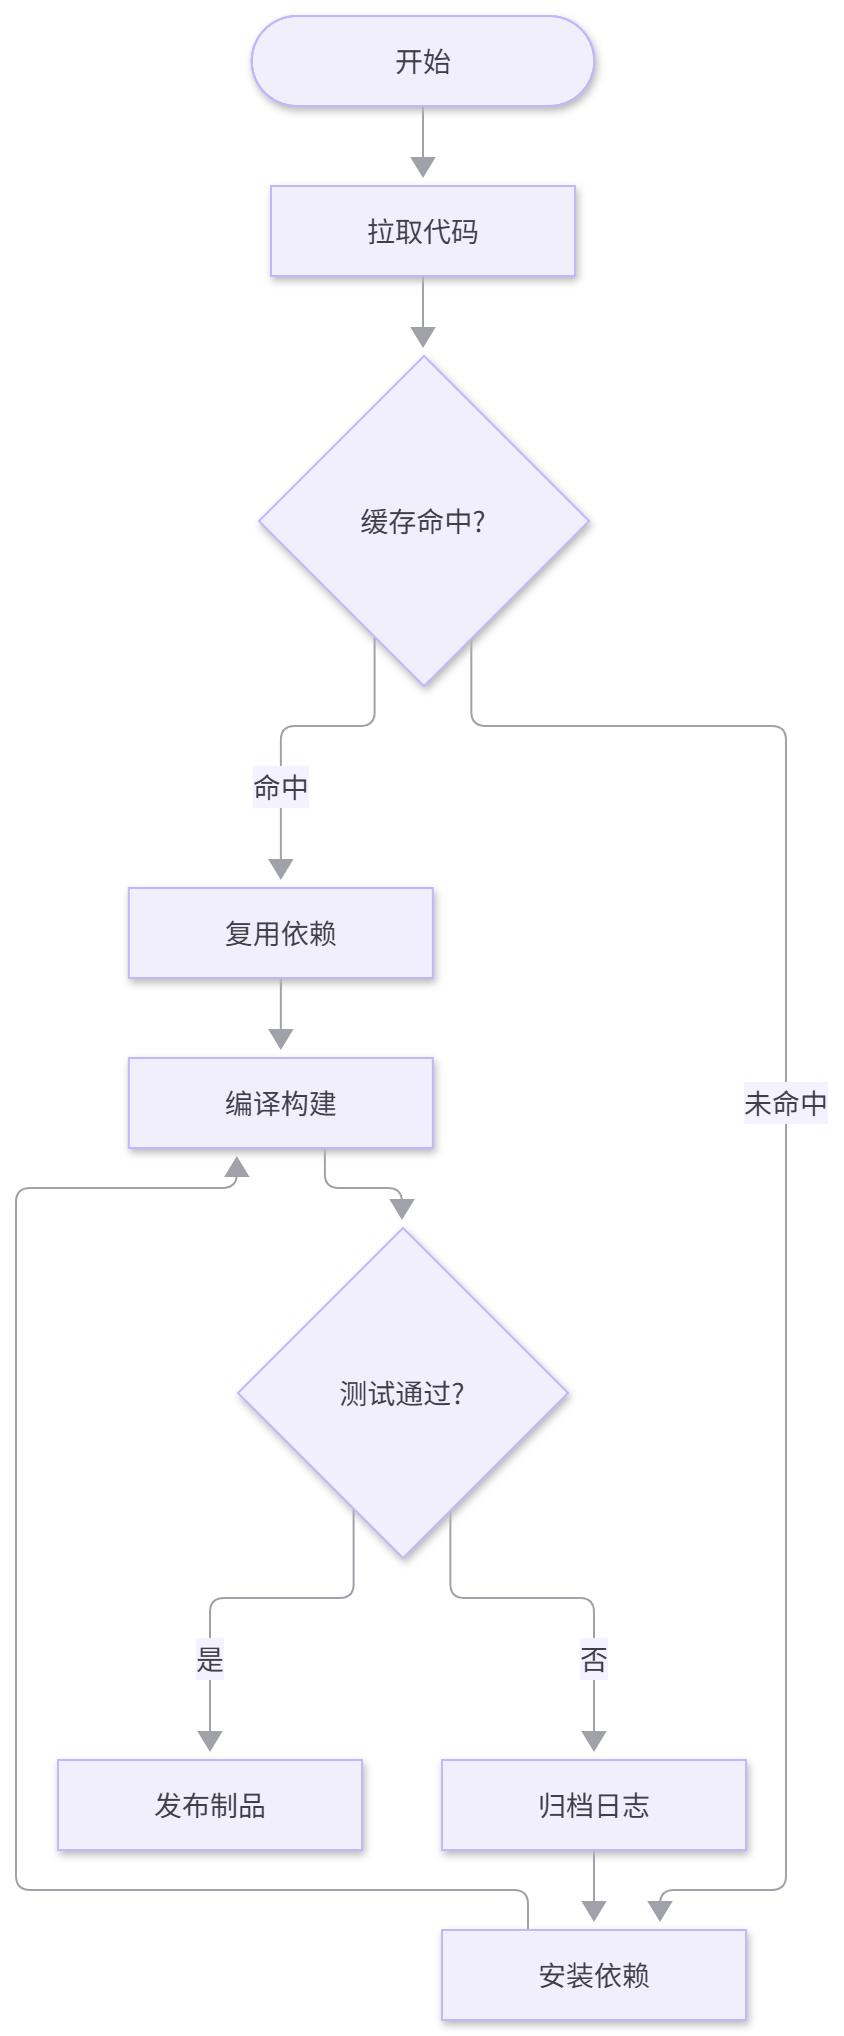
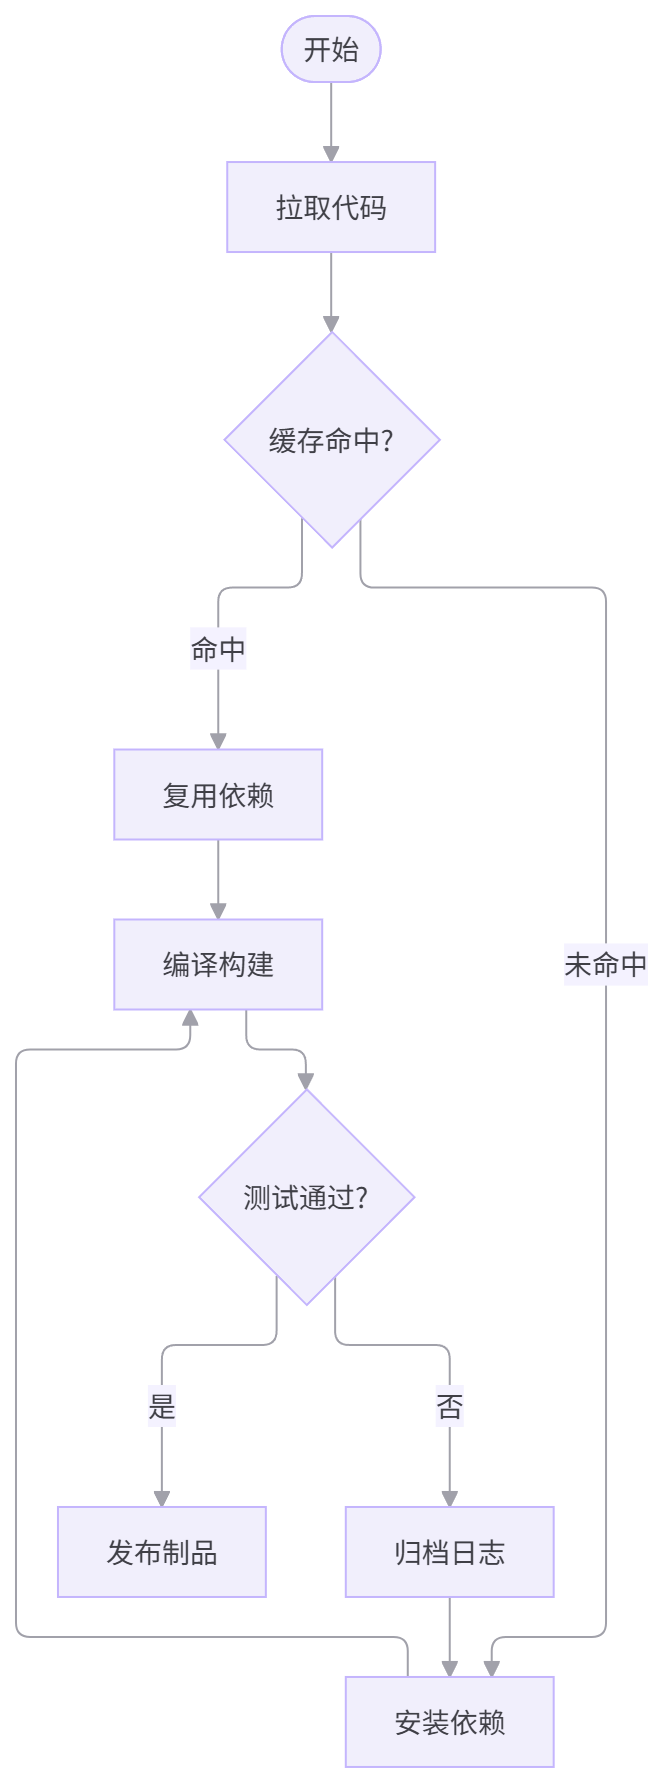
docs: 同步 mermaid 12 的 look 逆向结论并重生成对比图
docs/obsidian-internals.md「mermaid 12 的配置语义」补四条：look 的解析层序（段级优先于顶层，
故一条顶层指令即可全图种生效）、minNodeWidth 与 wrappingWidth 各自的作用（后者落到 DOM 上是
max-width 而非固定宽，调大只会让长标签晚点折）、themeVariables.fontSize 对状态图标签确实生效、
以及「数 SVG 字符串里的 data-look="neo" 得到的是 CSS 选择器不是渲染结果」这个坑。

AGENTS.md 加一条动手前必知的事实；README 双语补上回退投影的具体写法；CHANGELOG 记 0.1.3；
images/compare-*-plugin.png 四张按 npm run shots 重生成（native 侧未变）。

diff --git a/docs/obsidian-internals.md b/docs/obsidian-internals.md
@@ -63,6 +63,21 @@
   「Mermaid 默认 / 开 / 关」这类三态，避免在用户没要求时覆盖官方默认。
 - 流程图节点填充色取的是 `themeVariables.mainBkg`（**不是** `primaryColor`）；调主题色时不能只改
   `primaryColor`，否则节点不会变色。
+- **`look` 属于「外观三键」，而它的默认值藏在图种段里**：顶层 `look` 默认 `"classic"`，但 `defaultConfig`
+  的每个图种段（`flowchart` / `state` / `class` …）各自带 `look: "neo"`。`resolveAppearance` 按
+  「指令 → `initialize` 增量 → defaultConfig」的层序取值，同一层内**段级优先于顶层**，命中后再回写进段里
+  （`chunk-VPRB5NB3.mjs:5112-5160`）。neo 与非 neo 的实际差别是节点投影（`[data-look="neo"].node rect
+  { filter: … }`，同文件 5641-5681）和被硬编码抬高的内边距（`chunk-XC4XBNZT.mjs:676,1370,1452`），
+  以及箭头 marker（`barbNeo` / `barb`）。→ 注入**顶层** `look` 一条就能统一全部图种，只写 `state.look`
+  则只有状态图变。
+- **节点等宽与长标签折行是两条互不相干的默认值**：`state.minNodeWidth` / `flowchart.minNodeWidth`（均 120）
+  经 `labelHelper` 的 `withMinWidth` 把所有节点夹成等宽；`*.wrappingWidth`（均 120）决定折行点。
+  `wrappingWidth` 落到 DOM 上是 `max-width` 而非固定宽（`chunk-E2ZNV5FY.mjs:679-682`），所以调大它只会让
+  长标签晚一点折、不会把短节点撑宽 —— 想「贴着文字量尺寸」两个键都得动。
+- `themeVariables.fontSize` 对状态图标签确实生效（实测 computed 为 14px），于是节点宽度是
+  `字数 × 字号 + 2 × padding` 的线性函数。改字号会连带改布局密度，不只是改外观。
+- **核对 `look` 别数 SVG 字符串**：`[data-look="neo"]` 作为 CSS 选择器**永远**出现在内嵌 `<style>` 里，
+  数它等于零信息量。要看元素的 `data-look` 属性值，或节点 `rect` 的 computed `filter` 是不是 `none`。
 
 ## 我们的运行时决策（原因，不写在代码里）
 

diff --git a/CHANGELOG.md b/CHANGELOG.md
@@ -3,6 +3,26 @@
 本项目的版本记录。格式参考 Keep a Changelog，版本号遵循语义化版本；最新条目在最上面。
 面向用户的中英双语发布说明在 GitHub Release 里，本文件是仓库内的完整变更记录。
 
+## [0.1.3] - 未发布
+
+节点几何与外观整改：去掉 mermaid 12 默认的节点投影，并让节点回到贴着文字量尺寸。
+
+### 变更
+
+- 注入指令补顶层 `look: "classic"`。mermaid 12 的每个图种段自带 `look: "neo"`，节点因此一律带
+  `drop-shadow`、内边距被硬编码抬高到 16~28px；改成 classic 后投影消失、内边距回到 `padding`。
+  影响全部图种（`%% cm:plain %%` 一并生效），箭头 marker 相应从 `barbNeo` 换回 `barb`。
+- `state` / `flowchart` 的 `minNodeWidth` 放开到 0、`wrappingWidth` 从默认 120 放宽到 400。
+  此前所有节点被夹成等宽、超过 120px 的标签被强制折行；现在节点宽度回到
+  `字数 × 字号 + 2 × padding` 的线性关系，约 28 个汉字以内的标签保持单行。
+- 想找回投影：块里写 `%%{init: {"look":"neo"}}%%` 即可 —— 用户指令排在插件注入之后，天然压得过它。
+  README 双语已补这句逃生通道。
+- `docs/obsidian-internals.md`「mermaid 12 的配置语义」补四条逆向结论：`look` 的解析层序（段级优先于顶层，
+  故一条顶层指令即可全图种生效）、`minNodeWidth` 与 `wrappingWidth` 各自的作用（后者落到 DOM 上是
+  `max-width`，不是固定宽）、`themeVariables.fontSize` 对状态图标签生效、以及「数 SVG 字符串里的
+  `data-look="neo"` 得到的是 CSS 选择器不是渲染结果」这个坑。
+- `images/compare-*-plugin.png` 四张按 `npm run shots` 重生成（native 侧未变）。
+
 ## [0.1.2] - 2026-10-08
 
 面向社区目录上架自查的整改版本。

diff --git a/README.md b/README.md
@@ -124,7 +124,9 @@ flowchart LR
 | `%% cm:plain %%` | Render this diagram with mermaid's stock look (no card, no toolbar) |
 
 Your own `%%{init: ...}%%` directive always wins over what the plugin injects — the plugin
-prepends its configuration, so the values you write later take precedence.
+prepends its configuration, so the values you write later take precedence. For instance the
+plugin injects `look: "classic"` (flat nodes, no drop shadow) and lifts mermaid's 120px node
+width defaults; put `%%{init: {"look":"neo"}}%%` in a block to bring the shadows back for it.
 
 ## Settings
 

diff --git a/README.zh-CN.md b/README.zh-CN.md
@@ -120,7 +120,8 @@ flowchart LR
 | `%% cm:plain %%` | 本图按 mermaid 原生外观渲染（无卡片、无工具条） |
 
 你自己写的 `%%{init: ...}%%` 指令优先级始终高于插件注入的配置 —— 插件把配置注在最前面，
-后面写的值会覆盖它。
+后面写的值会覆盖它。例如插件注入的是 `look: "classic"`（节点扁平、无投影），并放宽了 mermaid
+默认的 120px 节点宽度；想在某张图里找回投影，在块里写 `%%{init: {"look":"neo"}}%%` 即可。
 
 ## 设置
 
